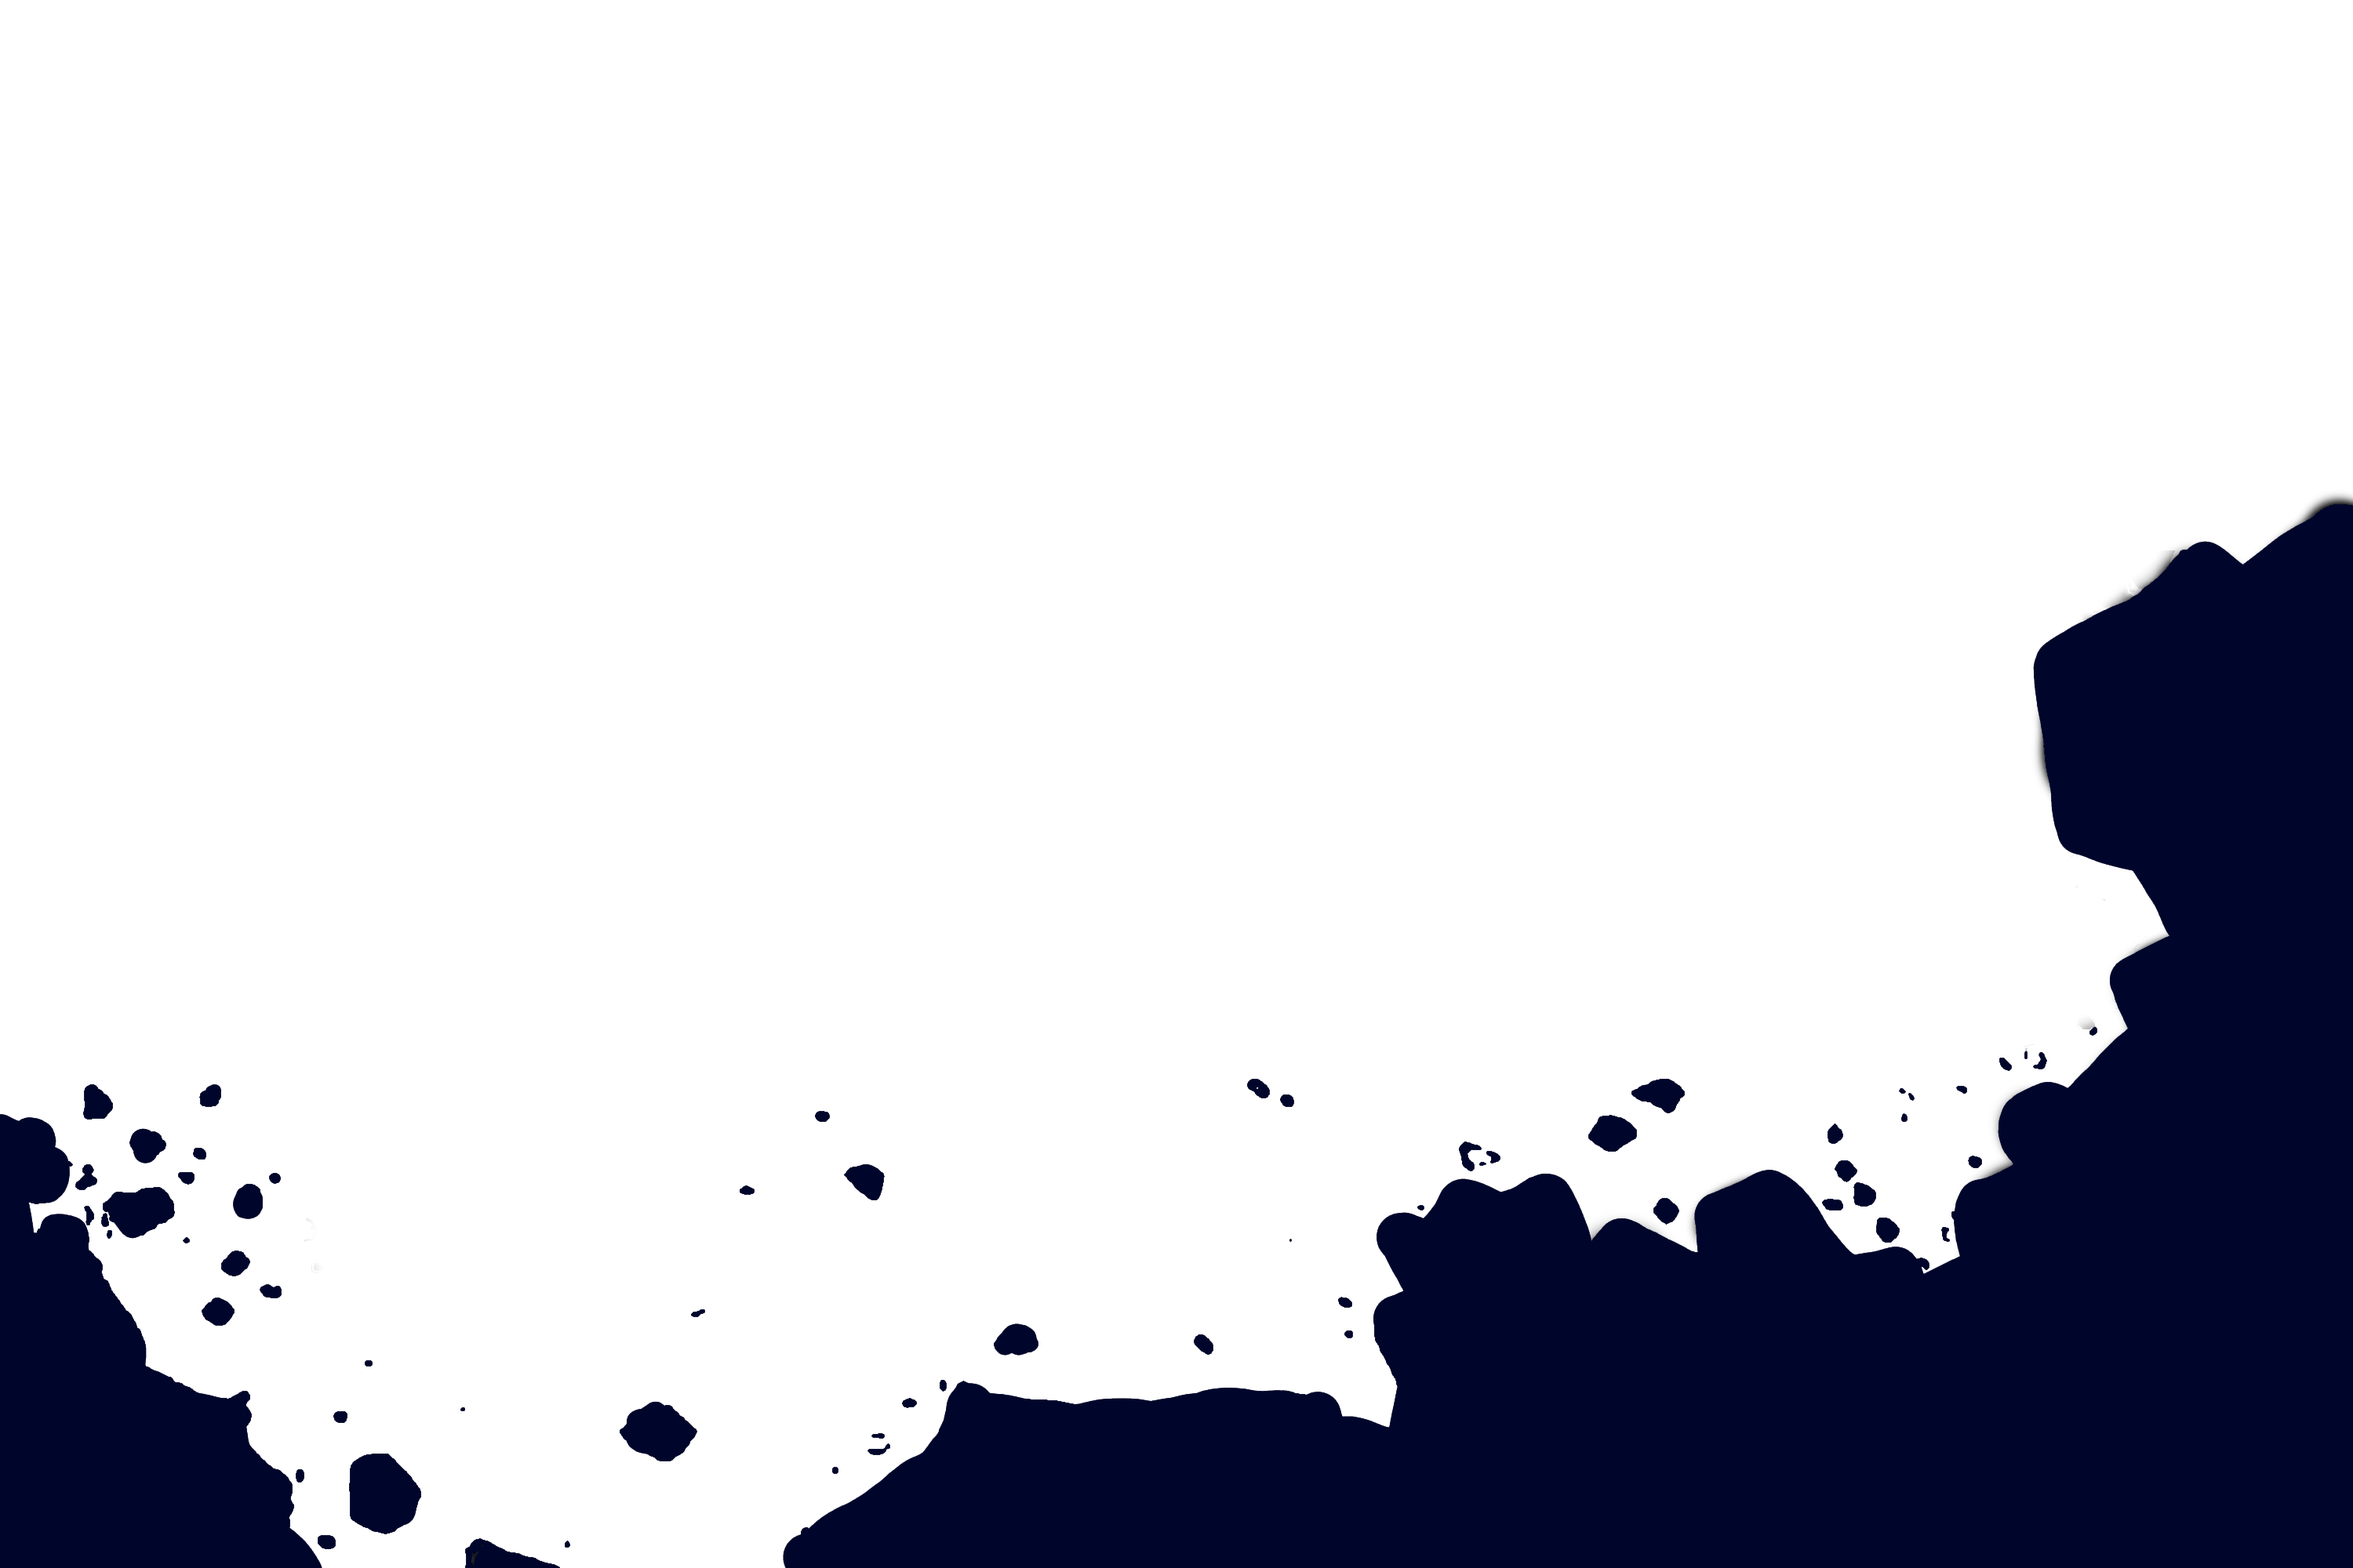
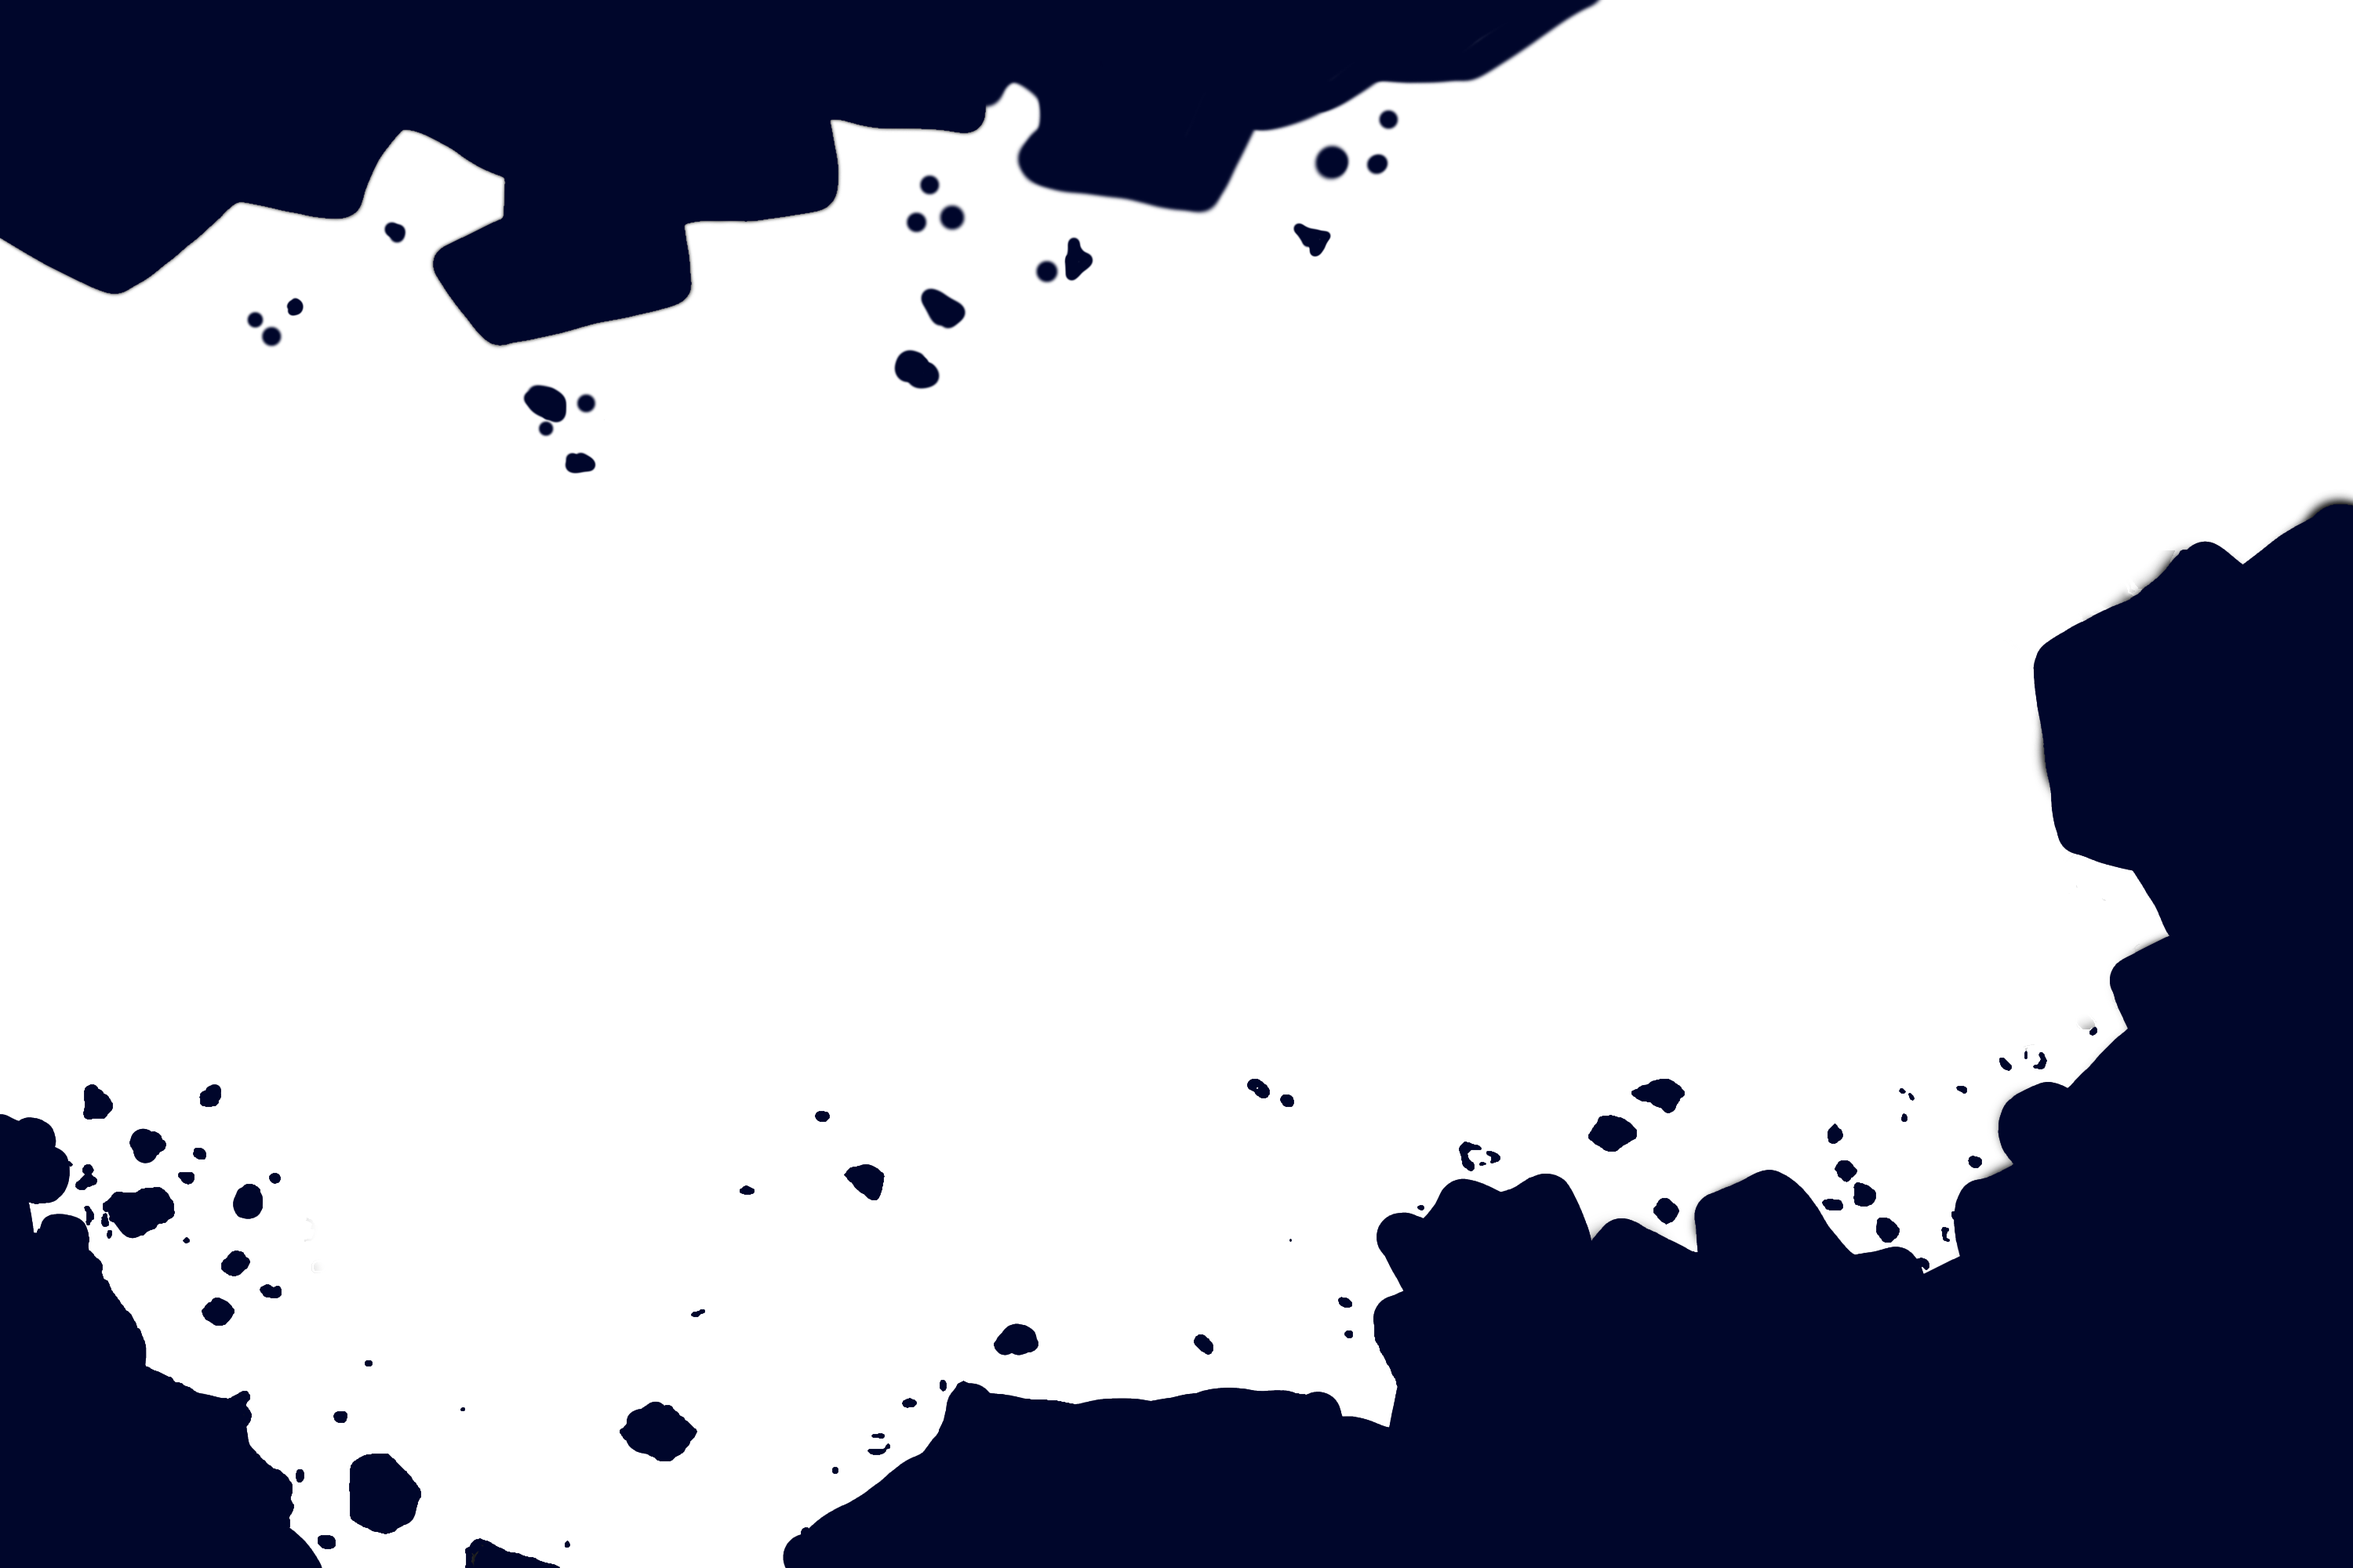
changed background color

diff --git a/src/App.jsx b/src/App.jsx
@@ -5,11 +5,10 @@ import Navbar from "./components/navbar";
 
 function App() {
   return (
-    <main className="bg-slate">
+    <main >
       <Navbar />
-      <Routes>
-        <Route path="/" element={<Hero />} />
-      </Routes>
+      <Hero />
+      <section className="h-screen"></section>
     </main>
   );
 }

diff --git a/src/css/index.css b/src/css/index.css
@@ -6,7 +6,7 @@
   font-style: normal;
   line-height: 1.5;
   color-scheme: light dark;
-  background-color: #261036;
+  background-color: #00041A;
 }
 
 
